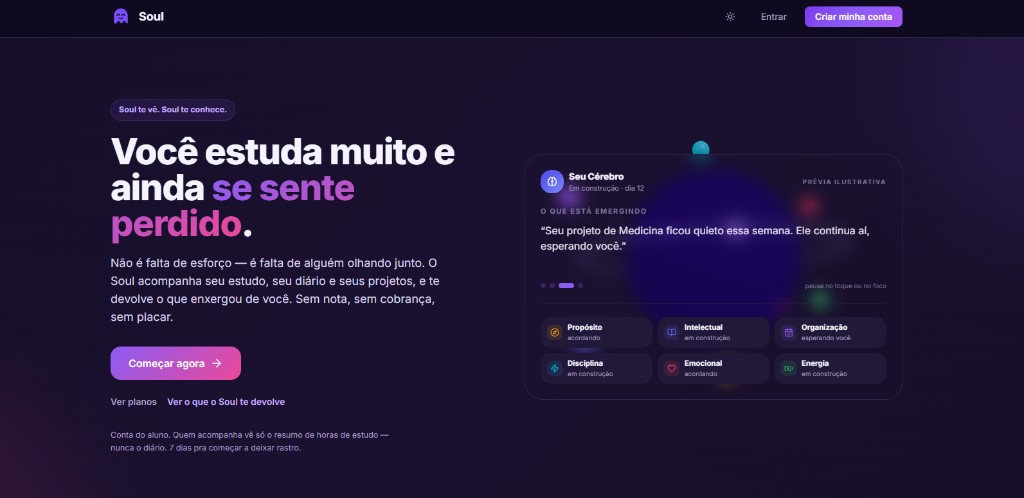
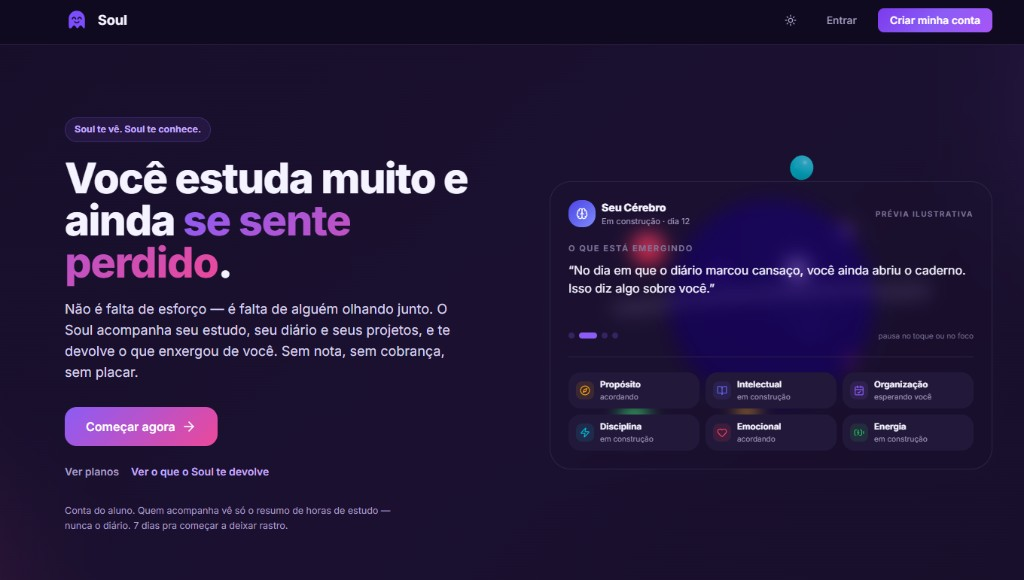
Update Portfolio component: replace image preview with live URL display, enhance styling for live preview section, and improve layout for better user experience.

diff --git a/src/components/Portfolio/styles.ts b/src/components/Portfolio/styles.ts
@@ -24,31 +24,139 @@ export const Container = styled.section`
     width: 100%;
     background: #121212;
     overflow: hidden;
+    padding: 1.6rem;
+  }
 
-    a {
-      display: block;
-      width: 100%;
-      min-height: 44px;
+  .live-preview {
+    display: block;
+    width: 100%;
+    min-height: 44px;
+    border-radius: 1.2rem;
+    overflow: hidden;
+    border: 1px solid rgba(255, 255, 255, 0.12);
+    background: #0b0b0f;
+    text-decoration: none;
+    color: inherit;
+    transition: border-color 0.25s ease, transform 0.25s ease;
+
+    &:hover {
+      border-color: rgba(35, 206, 107, 0.55);
+      transform: translateY(-2px);
     }
 
-    img {
-      display: block;
-      width: 100%;
-      height: auto;
-      object-fit: contain;
-      object-position: center;
-      transition: transform 0.35s ease;
-      transform-origin: center;
-    }
-
-    a:hover img {
-      transform: scale(1.03);
-    }
-
-    a:focus-visible {
+    &:focus-visible {
       outline: 2px solid var(--green);
-      outline-offset: -2px;
+      outline-offset: 3px;
     }
+  }
+
+  .live-preview__chrome {
+    display: flex;
+    align-items: center;
+    gap: 1.2rem;
+    padding: 0.9rem 1.2rem;
+    background: #17171c;
+    border-bottom: 1px solid rgba(255, 255, 255, 0.08);
+  }
+
+  .live-preview__dots {
+    display: inline-flex;
+    gap: 0.45rem;
+    flex-shrink: 0;
+
+    i {
+      width: 0.8rem;
+      height: 0.8rem;
+      border-radius: 50%;
+      background: #3a3a42;
+      display: block;
+
+      &:nth-child(1) {
+        background: #ff5f57;
+      }
+      &:nth-child(2) {
+        background: #febc2e;
+      }
+      &:nth-child(3) {
+        background: #28c840;
+      }
+    }
+  }
+
+  .live-preview__url {
+    flex: 1;
+    min-width: 0;
+    padding: 0.55rem 1rem;
+    border-radius: 999px;
+    background: #0f0f14;
+    color: rgba(255, 255, 255, 0.72);
+    font-size: 1.3rem;
+    letter-spacing: 0.02em;
+    white-space: nowrap;
+    overflow: hidden;
+    text-overflow: ellipsis;
+  }
+
+  .live-preview__stage {
+    position: relative;
+    min-height: 28rem;
+    padding: 3.2rem 2.4rem;
+    background:
+      radial-gradient(ellipse 70% 60% at 75% 40%, rgba(124, 58, 237, 0.35), transparent 60%),
+      radial-gradient(ellipse 50% 45% at 20% 80%, rgba(219, 39, 119, 0.2), transparent 55%),
+      linear-gradient(160deg, #09090f 0%, #15101f 55%, #0b0b12 100%);
+  }
+
+  .live-preview__scene {
+    max-width: 54rem;
+
+    h4 {
+      margin: 1.2rem 0 1.4rem;
+      font-size: clamp(2.4rem, 4vw, 3.8rem);
+      line-height: 1.15;
+      font-weight: 700;
+      color: #fff;
+
+      span {
+        background: linear-gradient(90deg, #a78bfa, #f472b6);
+        -webkit-background-clip: text;
+        background-clip: text;
+        color: transparent;
+      }
+    }
+  }
+
+  .live-preview__eyebrow {
+    display: inline-flex;
+    margin: 0;
+    padding: 0.45rem 1rem;
+    border-radius: 999px;
+    font-size: 1.2rem;
+    letter-spacing: 0.02em;
+    color: #c4b5fd;
+    background: rgba(124, 58, 237, 0.18);
+    border: 1px solid rgba(167, 139, 250, 0.35);
+  }
+
+  .live-preview__copy {
+    margin: 0 0 2rem;
+    max-width: 42ch;
+    font-size: 1.5rem;
+    line-height: 1.5;
+    color: rgba(255, 255, 255, 0.78);
+  }
+
+  .live-preview__pill {
+    display: inline-flex;
+    align-items: center;
+    justify-content: center;
+    min-height: 44px;
+    padding: 0.9rem 1.8rem;
+    border-radius: 999px;
+    font-size: 1.4rem;
+    font-weight: 600;
+    color: #fff;
+    background: linear-gradient(90deg, #7c3aed, #db2777);
   }
 
   .featured-body {
@@ -237,6 +345,19 @@ export const Container = styled.section`
       margin-bottom: 4rem;
     }
 
+    .featured-preview {
+      padding: 1rem;
+    }
+
+    .live-preview__stage {
+      min-height: 22rem;
+      padding: 2.4rem 1.6rem;
+    }
+
+    .live-preview__copy {
+      font-size: 1.4rem;
+    }
+
     .featured-body {
       padding: 1.6rem;
       gap: 1.8rem;
@@ -251,5 +372,14 @@ export const Container = styled.section`
     .featured-cta {
       width: 100%;
     }
+
+    .live-preview__url {
+      font-size: 1.2rem;
+    }
+
+    .live-preview__pill {
+      width: 100%;
+    }
   }
 `;
+

diff --git a/src/components/Portfolio/Portfolio.tsx b/src/components/Portfolio/Portfolio.tsx
@@ -2,8 +2,9 @@ import { Container } from "./styles";
 import githubIcon from "../../assets/github-icon.svg";
 import externalLinkIcon from "../../assets/external-link-icon.svg";
 import { AnimationOnScroll } from "react-animation-on-scroll";
-import soulPreview from "../../assets/soul-preview.png";
 import { featuredSoul, projects } from "../../data/projects";
+
+const soulHost = new URL(featuredSoul.live).host;
 
 function FolderIcon() {
   return (
@@ -34,15 +35,33 @@ export function Portfolio() {
         <article className="featured">
           <div className="featured-preview">
             <a
+              className="live-preview"
               href={featuredSoul.live}
               target="_blank"
               rel="noreferrer"
-              aria-label={`${featuredSoul.ctaLabel} (abre em nova aba)`}
+              aria-label={`${featuredSoul.ctaLabel} — abrir site ao vivo`}
             >
-              <img
-                src={soulPreview}
-                alt={`Preview da plataforma ${featuredSoul.title}`}
-              />
+              <div className="live-preview__chrome" aria-hidden="true">
+                <span className="live-preview__dots">
+                  <i />
+                  <i />
+                  <i />
+                </span>
+                <span className="live-preview__url">{soulHost}</span>
+              </div>
+              <div className="live-preview__stage">
+                <div className="live-preview__scene">
+                  <p className="live-preview__eyebrow">Soul te vê. Soul te conhece.</p>
+                  <h4>
+                    Você estuda muito e ainda{" "}
+                    <span>se sente perdido.</span>
+                  </h4>
+                  <p className="live-preview__copy">
+                    Plataforma de estudos com IA.
+                  </p>
+                  <span className="live-preview__pill">Abrir Soul →</span>
+                </div>
+              </div>
             </a>
           </div>
           <div className="featured-body">
